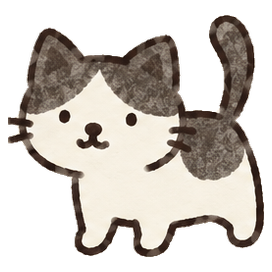
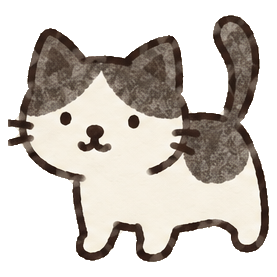
Render game canvas at display pixel density and preserve source image detail

diff --git a/game.js b/game.js
@@ -1379,8 +1379,41 @@ const makerToolButtons = {
 
 function updateCanvasMetrics(stage) {
   activeBoardSize = cloneBoardSize(getStageBoardSize(stage));
-  canvas.width = getBoardPixelWidth(activeBoardSize);
-  canvas.height = getBoardPixelHeight(activeBoardSize);
+  drawDungeonFloor.cache = null;
+  // Keep CSS layout independent of the high-DPI backing bitmap.
+  canvas.style.aspectRatio = `${getBoardPixelWidth()} / ${getBoardPixelHeight()}`;
+  syncCanvasResolution();
+}
+
+function getCanvasContentRect() {
+  const rect = canvas.getBoundingClientRect();
+  const style = getComputedStyle(canvas);
+  const left = parseFloat(style.borderLeftWidth) || 0;
+  const top = parseFloat(style.borderTopWidth) || 0;
+  return {
+    left: rect.left + left,
+    top: rect.top + top,
+    width: Math.max(0, rect.width - left - (parseFloat(style.borderRightWidth) || 0)),
+    height: Math.max(0, rect.height - top - (parseFloat(style.borderBottomWidth) || 0)),
+  };
+}
+
+function syncCanvasResolution() {
+  const rect = getCanvasContentRect();
+  const logicalWidth = getBoardPixelWidth();
+  const logicalHeight = getBoardPixelHeight();
+  const dpr = window.devicePixelRatio || 1;
+  const width = Math.max(1, Math.ceil((rect.width || logicalWidth) * dpr));
+  const height = Math.max(1, Math.ceil((rect.height || logicalHeight) * dpr));
+  if (canvas.width !== width || canvas.height !== height) {
+    canvas.width = width;
+    canvas.height = height;
+    drawDungeonFloor.cache = null;
+  }
+  // Puzzle geometry stays in 48-unit cells; only drawing gains more pixels.
+  context.setTransform(width / logicalWidth, 0, 0, height / logicalHeight, 0, 0);
+  context.imageSmoothingEnabled = true;
+  context.imageSmoothingQuality = "high";
 }
 
 function createInitialState(stage = DEFAULT_START_STAGE) {
@@ -1723,9 +1756,9 @@ function getCanvasPoint(event) {
     event.touches?.[0] ??
     event.changedTouches?.[0] ??
     event;
-  const rect = canvas.getBoundingClientRect();
-  const scaleX = canvas.width / rect.width;
-  const scaleY = canvas.height / rect.height;
+  const rect = getCanvasContentRect();
+  const scaleX = getBoardPixelWidth() / (rect.width || 1);
+  const scaleY = getBoardPixelHeight() / (rect.height || 1);
 
   return {
     x: (sourcePoint.clientX - rect.left) * scaleX,
@@ -2665,7 +2698,8 @@ function finishDrawing(event) {
 }
 
 function clearCanvas() {
-  context.clearRect(0, 0, canvas.width, canvas.height);
+  syncCanvasResolution();
+  context.clearRect(0, 0, getBoardPixelWidth(), getBoardPixelHeight());
   drawDungeonFloor();
 }
 
@@ -2677,9 +2711,10 @@ function drawDungeonFloor() {
     floor.width = canvas.width;
     floor.height = canvas.height;
     const brush = floor.getContext("2d");
+    brush.setTransform(canvas.width / getBoardPixelWidth(), 0, 0, canvas.height / getBoardPixelHeight(), 0, 0);
     const size = CONFIG.cellSize;
-    for (let y = 0; y < floor.height; y += size) {
-      for (let x = 0; x < floor.width; x += size) {
+    for (let y = 0; y < getBoardPixelHeight(); y += size) {
+      for (let x = 0; x < getBoardPixelWidth(); x += size) {
         brush.fillStyle = ["#f4e5cf", "#efddc2", "#f7ead7", "#eedbc1"][(x / size + y / size * 3) % 4];
         brush.fillRect(x, y, size, size);
         brush.fillStyle = "#ffffff50";
@@ -2693,7 +2728,7 @@ function drawDungeonFloor() {
     }
     drawDungeonFloor.cache = floor;
   }
-  context.drawImage(floor, 0, 0);
+  context.drawImage(floor, 0, 0, getBoardPixelWidth(), getBoardPixelHeight());
 }
 
 function drawLuminousCells(cells, isDrawing = false) {
@@ -2823,7 +2858,7 @@ function drawGrid() {
 
     context.beginPath();
     context.moveTo(offset, 0);
-    context.lineTo(offset, canvas.height);
+    context.lineTo(offset, getBoardPixelHeight());
     context.stroke();
   }
 
@@ -2832,7 +2867,7 @@ function drawGrid() {
 
     context.beginPath();
     context.moveTo(0, offset);
-    context.lineTo(canvas.width, offset);
+    context.lineTo(getBoardPixelWidth(), offset);
     context.stroke();
   }
 
@@ -3088,12 +3123,12 @@ function drawOverlay() {
 
   context.save();
   context.fillStyle = CONFIG.overlayFillStyle;
-  context.fillRect(0, 0, canvas.width, canvas.height);
+  context.fillRect(0, 0, getBoardPixelWidth(), getBoardPixelHeight());
 
-  const plaqueWidth = Math.min(canvas.width - 32, 390);
-  const plaqueHeight = Math.min(canvas.height - 24, 104);
-  const plaqueX = (canvas.width - plaqueWidth) / 2;
-  const plaqueY = (canvas.height - plaqueHeight) / 2;
+  const plaqueWidth = Math.min(getBoardPixelWidth() - 32, 390);
+  const plaqueHeight = Math.min(getBoardPixelHeight() - 24, 104);
+  const plaqueX = (getBoardPixelWidth() - plaqueWidth) / 2;
+  const plaqueY = (getBoardPixelHeight() - plaqueHeight) / 2;
   const plaqueFill = context.createLinearGradient(0, plaqueY, 0, plaqueY + plaqueHeight);
   plaqueFill.addColorStop(0, "#97765e");
   plaqueFill.addColorStop(1, "#6b5142");
@@ -3116,15 +3151,15 @@ function drawOverlay() {
     && (gameState.mode === GAME_MODE.random || gameState.mode === getStageModeKey());
   context.fillText(
     gameState.gameOver ? (uiLanguage === "ja" ? "もういちど" : "TRY AGAIN") : (uiLanguage === "ja" ? "おかえり！" : "WELCOME HOME"),
-    canvas.width / 2,
-    canvas.height / 2 - (canContinue ? 12 : 0)
+    getBoardPixelWidth() / 2,
+    getBoardPixelHeight() / 2 - (canContinue ? 12 : 0)
   );
   if (canContinue) {
     context.font = `bold ${Math.min(16, plaqueWidth / 22)}px Trebuchet MS, Segoe UI, sans-serif`;
     context.fillText(
       uiLanguage === "ja" ? "クリック／タップで次のステージへ" : "Click / tap to continue",
-      canvas.width / 2,
-      canvas.height / 2 + 28
+      getBoardPixelWidth() / 2,
+      getBoardPixelHeight() / 2 + 28
     );
   }
   context.restore();
@@ -9425,3 +9460,25 @@ async function playAutoSolveSolution(stage, solution, runId) {
 
   return gameState.clear;
 }
+
+// Resize without changing game state; coalesce layout and monitor-DPI events.
+(function observeCanvasResolution() {
+  let pendingFrame = 0;
+  const redraw = () => {
+    if (pendingFrame) return;
+    pendingFrame = requestAnimationFrame(() => {
+      pendingFrame = 0;
+      if (canvas.getBoundingClientRect().width > 0) render();
+    });
+  };
+  if (typeof ResizeObserver === "function") new ResizeObserver(redraw).observe(canvas);
+  window.addEventListener("resize", redraw);
+  let densityQuery;
+  const watchDensity = () => {
+    densityQuery?.removeEventListener("change", watchDensity);
+    densityQuery = window.matchMedia(`(resolution: ${window.devicePixelRatio || 1}dppx)`);
+    densityQuery.addEventListener("change", watchDensity);
+    redraw();
+  };
+  if (typeof window.matchMedia === "function") watchDensity();
+})();

diff --git a/tests/canvas-resolution.test.js b/tests/canvas-resolution.test.js
@@ -1,0 +1,83 @@
+const test = require('node:test');
+const assert = require('node:assert/strict');
+const fs = require('node:fs');
+const vm = require('node:vm');
+const source = fs.readFileSync(require('node:path').join(__dirname, '../game.js'), 'utf8');
+
+function harness({width = 720, height = 438, dpr = 2} = {}) {
+  const rect = {left: 100, top: 50, width, height};
+  let resets = 0;
+  const canvas = {style: {}, getBoundingClientRect: () => rect, _width: 480, _height: 288};
+  for (const key of ['width', 'height']) Object.defineProperty(canvas, key, {
+    get() { return this[`_${key}`]; },
+    set(value) { resets++; this[`_${key}`] = value; },
+  });
+  const context = {setTransform(...args) { this.transform = args; }};
+  const floor = {cache: {}};
+  const scope = {
+    canvas, context, window: {devicePixelRatio: dpr}, drawDungeonFloor: floor,
+    activeBoardSize: {width:10, height:6},
+    getStageBoardSize: stage => stage.boardSize,
+    cloneBoardSize: board => ({...board}),
+    getBoardPixelWidth: () => scope.activeBoardSize.width * 48,
+    getBoardPixelHeight: () => scope.activeBoardSize.height * 48,
+    getComputedStyle: () => ({borderLeftWidth:'3px',borderRightWidth:'3px',borderTopWidth:'3px',borderBottomWidth:'3px'}),
+  };
+  vm.createContext(scope);
+  vm.runInContext(source.slice(source.indexOf('function updateCanvasMetrics('), source.indexOf('function createInitialState(')), scope);
+  vm.runInContext(source.slice(source.indexOf('function getCanvasPoint('), source.indexOf('function preventTouchBrowserAction(')), scope);
+  return {scope, canvas, context, rect, floor, resets: () => resets};
+}
+
+test('bitmap matches display pixels at fractional and high DPR, not puzzle cell resolution', () => {
+  for (const dpr of [1, 1.25, 2, 3]) {
+    const h = harness({dpr});
+    h.scope.syncCanvasResolution();
+    assert.equal(h.canvas.width, Math.ceil(714 * dpr));
+    assert.equal(h.canvas.height, Math.ceil(432 * dpr));
+    assert.equal(h.context.transform[0], h.canvas.width / 480);
+    assert.equal(h.context.transform[3], h.canvas.height / 288);
+    assert.equal(h.floor.cache, null);
+    const resets = h.resets();
+    h.scope.syncCanvasResolution();
+    assert.equal(h.resets(), resets, 'redrawing must not reallocate the bitmap');
+  }
+});
+
+test('mouse and touch map to the same logical cell at all pixel densities, excluding borders', () => {
+  for (const dpr of [1, 2, 3]) {
+    const h = harness({dpr});
+    h.scope.syncCanvasResolution();
+    const position = {clientX:103 + 714 * .85, clientY:53 + 432 * .75};
+    for (const event of [position, {touches:[position]}, {changedTouches:[position]}]) {
+      const point = h.scope.getCanvasPoint(event);
+      assert.equal(Math.floor(point.x / 48), 8);
+      assert.equal(Math.floor(point.y / 48), 4);
+    }
+  }
+});
+
+test('resize invalidates floor cache; hiding the canvas never creates a zero-size bitmap', () => {
+  const h = harness();
+  h.scope.syncCanvasResolution();
+  h.floor.cache = {};
+  h.rect.width = 318;
+  h.rect.height = 193.2;
+  h.scope.syncCanvasResolution();
+  assert.equal(h.canvas.width, 624);
+  assert.equal(h.floor.cache, null);
+  h.rect.width = h.rect.height = 0;
+  h.scope.syncCanvasResolution();
+  assert.equal(h.canvas.width, 960);
+  assert.equal(h.canvas.height, 576);
+});
+
+test('a new board rebuilds its floor even if CSS dimensions have not changed yet', () => {
+  const h = harness();
+  h.scope.syncCanvasResolution();
+  h.floor.cache = {};
+  h.scope.updateCanvasMetrics({boardSize:{width:10, height:10}});
+  assert.equal(h.floor.cache, null);
+  assert.equal(h.canvas.style.aspectRatio, '480 / 480');
+  assert.equal(h.context.transform[3], h.canvas.height / 480);
+});

diff --git a/maker.html b/maker.html
@@ -143,6 +143,6 @@
 
   <script src="stage/manifest.js?v=stage-manifest-1"></script>
   <script src="solver-browser.js?v=region-solver-1"></script>
-  <script src="game.js?v=stage-manifest-2"></script>
+  <script src="game.js?v=cat-hdpi-2"></script>
 </body>
 </html>

diff --git a/index.html b/index.html
@@ -340,6 +340,6 @@
 
   <script src="stage/manifest.js?v=stage-manifest-4"></script>
   <script src="spotlight-tutorial.js?v=cat-1"></script>
-  <script src="game.js?v=cat-1"></script>
+  <script src="game.js?v=cat-hdpi-2"></script>
 </body>
 </html>

diff --git a/tools/cut-cat-assets.py b/tools/cut-cat-assets.py
@@ -27,10 +27,15 @@ def cut(source, box, name):
     mask = Image.fromarray((ink * 255).astype('uint8'))
     im.putalpha(mask)
     im = im.crop(im.getbbox())
+    # Standalone images (home/how-to) retain original detail, without upscaling.
+    # Keep the same relative padding as the compact board atlas.
+    side = round(max(im.size) * 272 / 256)
+    original = Image.new('RGBA', (side, side))
+    original.alpha_composite(im, ((side-im.width)//2, (side-im.height)//2))
+    original.save(OUT / f'{name}.png')
     im.thumbnail((256, 256), Image.Resampling.LANCZOS)
     tile = Image.new('RGBA', (272, 272))
     tile.alpha_composite(im, ((272-im.width)//2, (272-im.height)//2))
-    tile.save(OUT / f'{name}.png')
     return tile
 
 cats = [(25,170,303,451),(309,247,625,442),(616,173,904,460),

diff --git a/README.md b/README.md
@@ -21,6 +21,7 @@ python -m http.server 8080 --bind 127.0.0.1
 - 鍵→魚、バケツ→骨、閉じた／開いたドア→閉じた／開いた段ボール。
 - 先に発動するワープ→紙袋、後に発動するワープ→猫トンネル。
 - クリーム色の画面、木の床、セージグリーンのボタンと手描きのキャラクター。
+- 盤面は表示サイズ×画面のピクセル密度で描画し、リサイズ・画面移動に追従。操作座標は描画解像度から独立。
 - 日本語・英語の遊び方とゲーム内チュートリアルを猫版に変更。
 - 元作品用のストア誘導・購入アイコンは猫版Web画面では非表示。
 
@@ -31,7 +32,7 @@ python -m http.server 8080 --bind 127.0.0.1
 ## 素材
 
 ユーザー提供の `image/` を元に、`assets/cats/` に透過切り抜き16枚とアトラスを生成しています。
-原画は変更していません。再生成する場合のみ以下の Python パッケージが必要です。
+原画は変更していません。単体画像は原寸の細部を保持し、盤面用アトラスのみ256pxに最適化しています。再生成する場合のみ以下の Python パッケージが必要です。
 
 ```powershell
 python -m pip install Pillow numpy scipy
@@ -41,11 +42,11 @@ python tools/cut-cat-assets.py
 ## 確認
 
 ```powershell
-node --test tests/cat-theme.test.js tests/clear-advance.test.js tests/spotlight-tutorial.test.js
+node --test tests/canvas-resolution.test.js tests/cat-theme.test.js tests/clear-advance.test.js tests/spotlight-tutorial.test.js
 node --test tests/*.test.js
 ```
 
-猫版追加・操作・チュートリアルの14テストは成功。
+猫版追加・描画解像度・操作・チュートリアルの18テストは成功。
 全体では元リポジトリの `medium/004 is solved in two moves` テストが失敗します。
 そのテスト・`solver.js`・対象ステージは元リポジトリから未変更です。
 猫版のブラウザ確認ではステージ001のドラッグ操作、魚取得、クリア、次ステージ移動を確認済みです。
